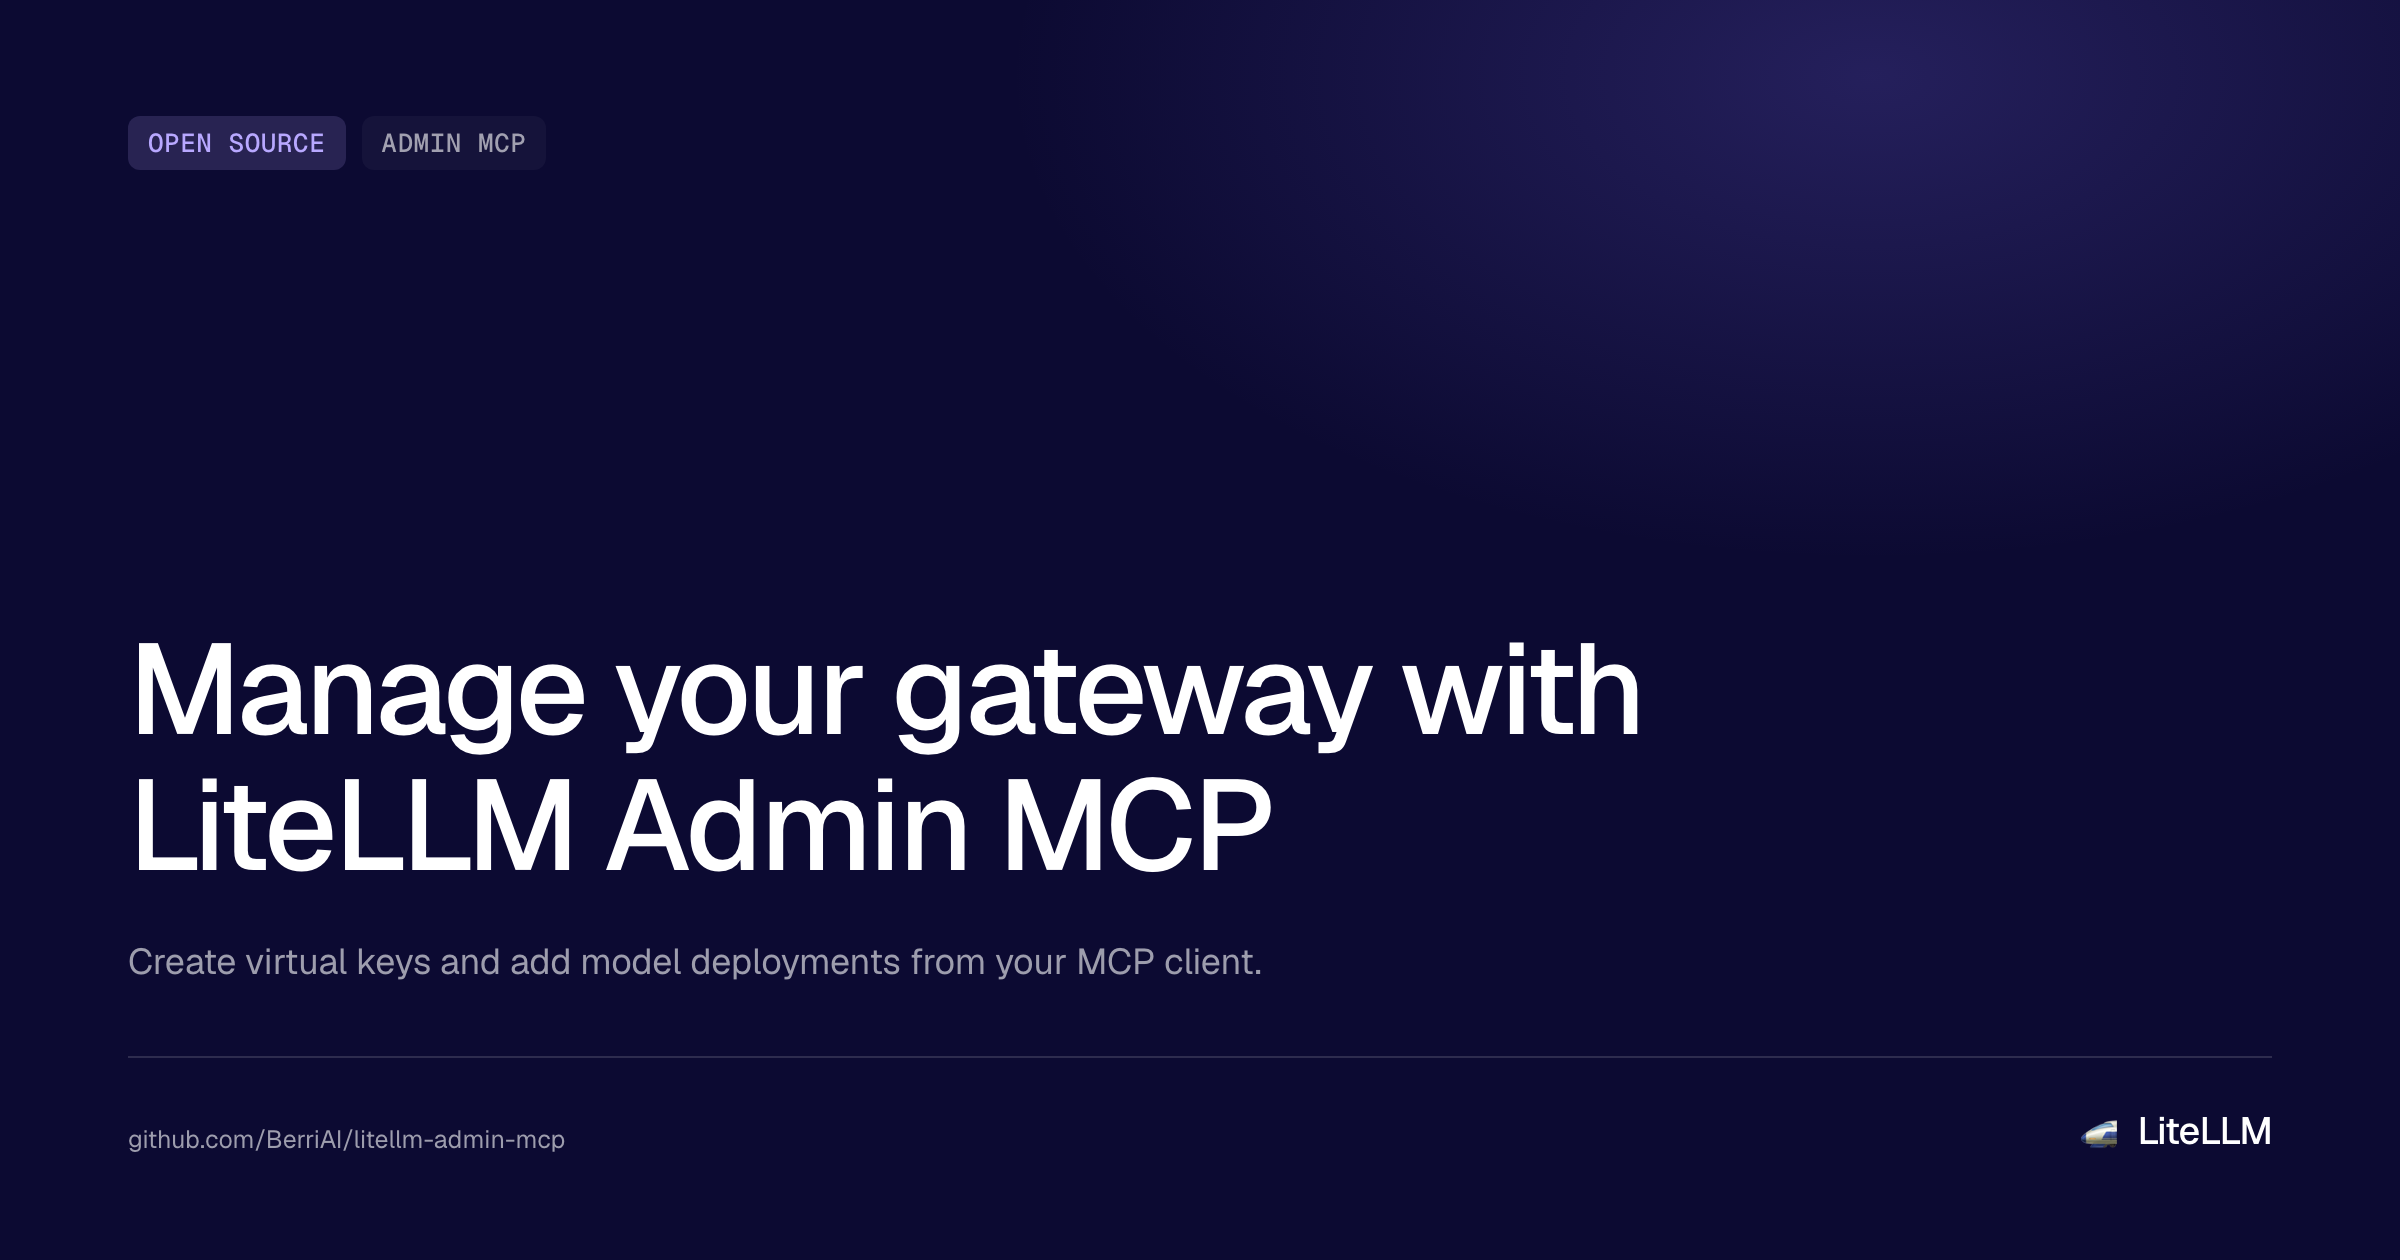
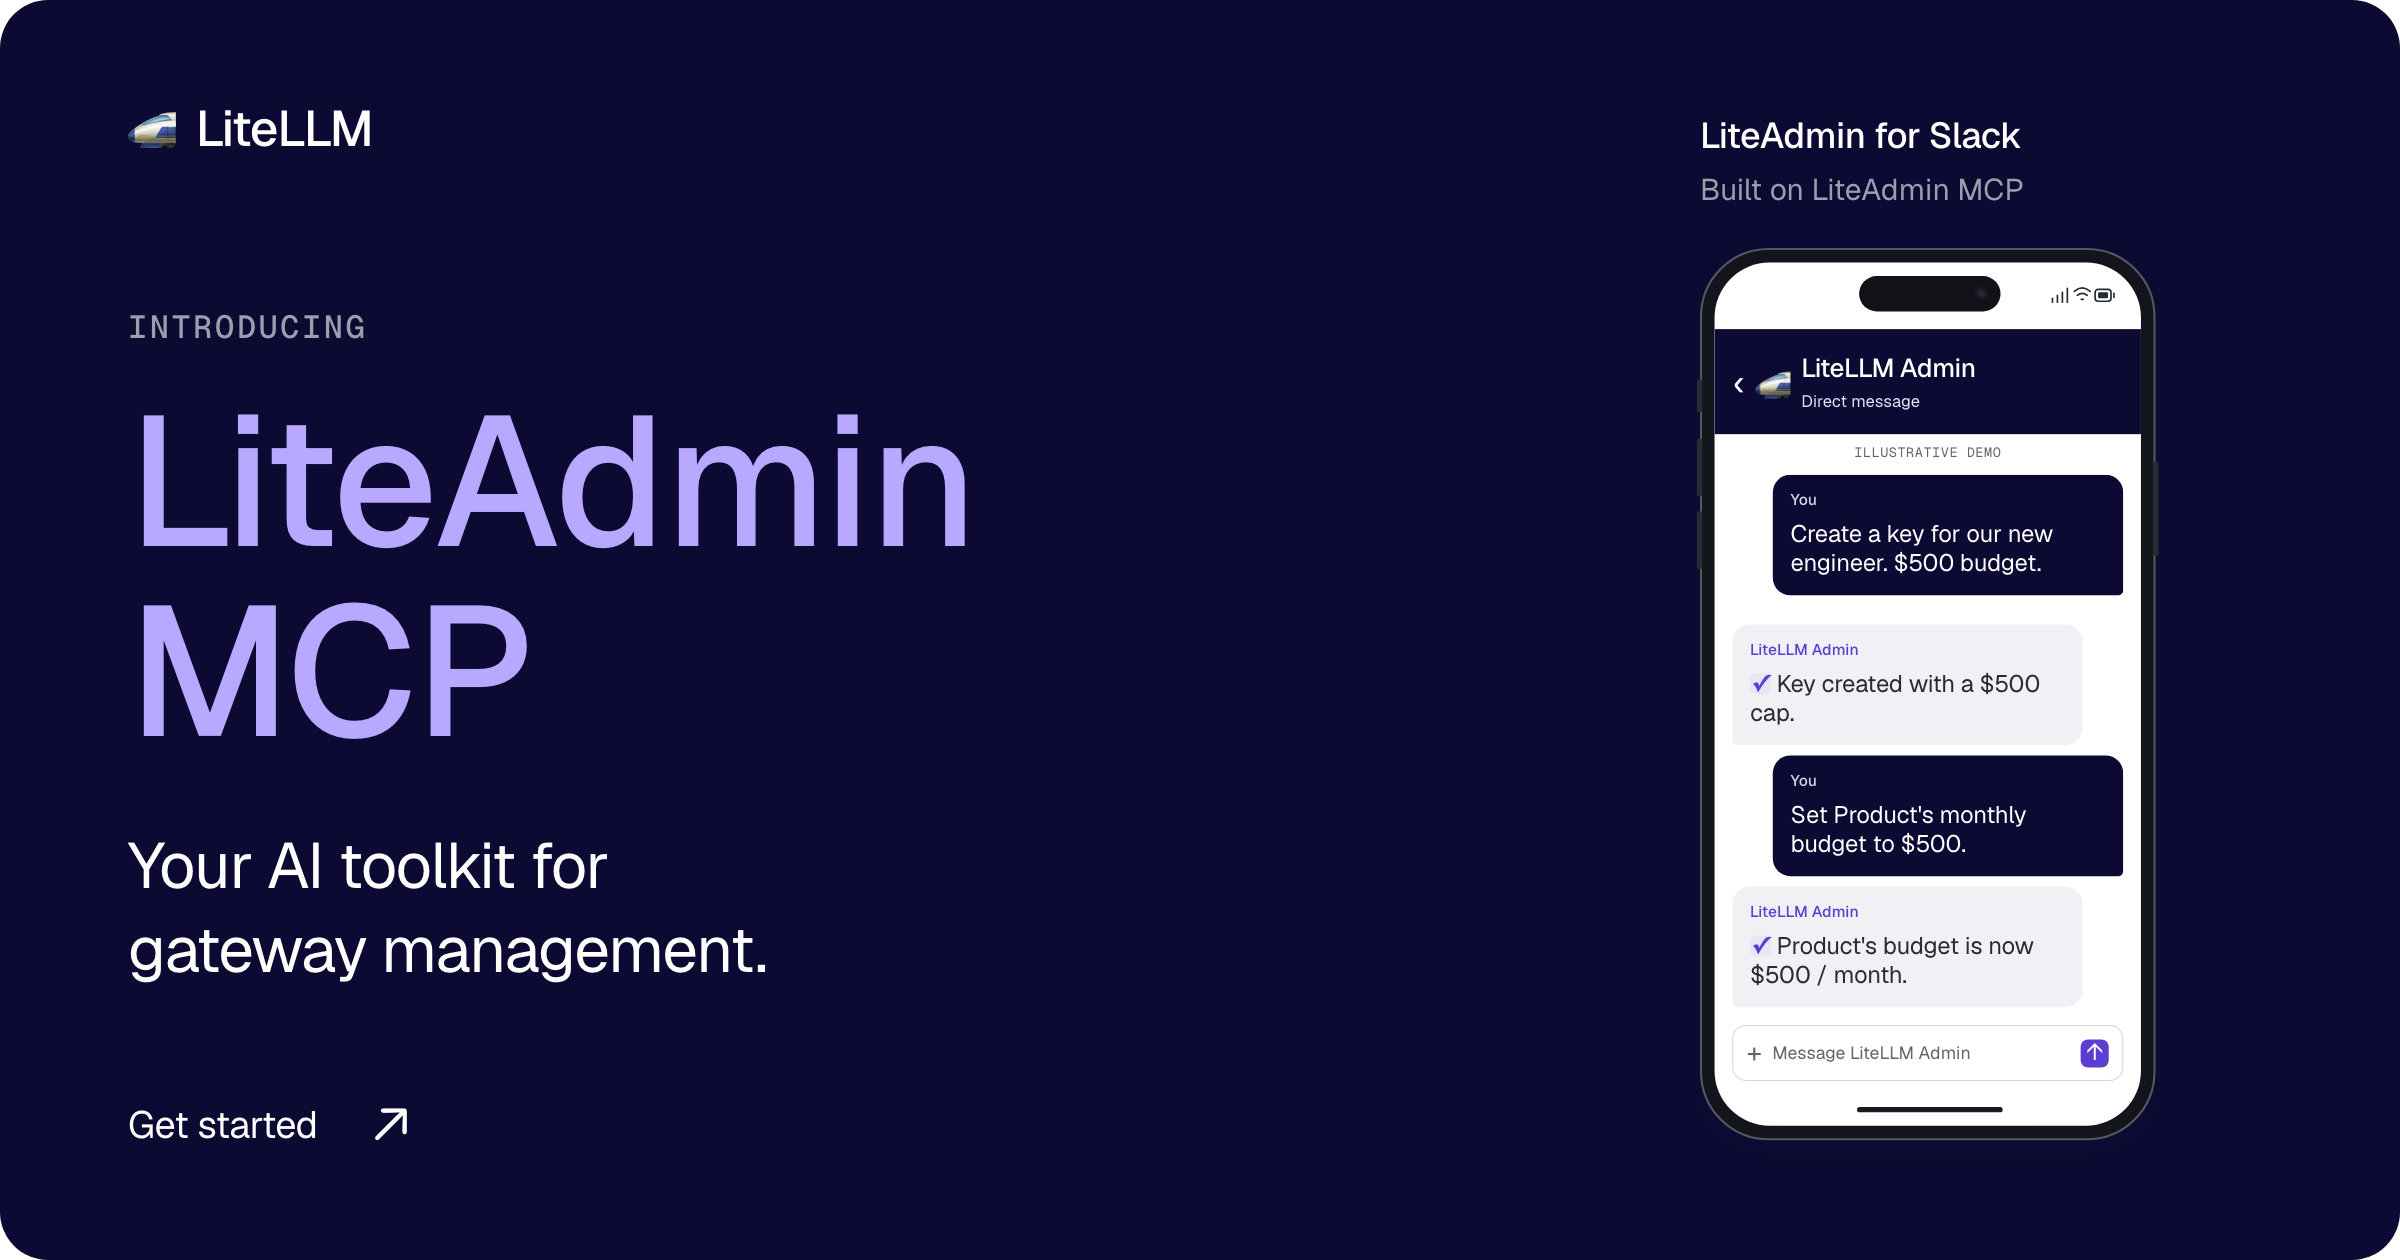
docs: lead launch post with LiteAdmin MCP and refresh heroes

diff --git a/blog/litellm_admin_mcp/index.md b/blog/litellm_admin_mcp/index.md
@@ -1,9 +1,9 @@
 ---
 slug: litellm-admin-mcp
-title: "Manage your gateway with LiteLLM Admin MCP"
+title: "Introducing LiteAdmin MCP"
 date: 2026-09-23T10:00:00
 authors: [tin]
-description: "Create keys, add models, and manage team budgets through your agent with LiteLLM Admin MCP, or from Slack with the LiteLLM Admin Agent."
+description: "Give your agent tools to create keys, add models, and manage budgets with LiteAdmin MCP. Use the same connector through LiteAdmin, our Slack admin agent."
 tags: [mcp, agents, ai-gateway]
 hide_table_of_contents: true
 image: ./hero.png
@@ -14,7 +14,7 @@ import HeroLight from './hero.png';
 import HeroDark from './hero-dark.png';
 
 <ThemedImage
-  alt="Manage your gateway with LiteLLM Admin MCP. Create virtual keys and add model deployments from your MCP client."
+  alt="Introducing LiteAdmin MCP: your AI toolkit for gateway management. LiteAdmin for Slack is built on LiteAdmin MCP."
   sources={{
     light: typeof HeroLight === 'string' ? HeroLight : HeroLight.src.images.at(-1).path,
     dark: typeof HeroDark === 'string' ? HeroDark : HeroDark.src.images.at(-1).path,
@@ -24,13 +24,13 @@ import HeroDark from './hero-dark.png';
 
 An engineer asks for an API key for a new project. You need to choose its models, set a budget, and assign it to a team. As usage grows, you need to check spending and adjust those limits.
 
-With **LiteLLM Admin MCP**, you can handle these tasks through your agent. Connect it to your MCP client, or use the **LiteLLM Admin Agent**, our Slack app built on the same connector, to manage your gateway from a DM.
+**LiteAdmin MCP** lets your agent handle these tasks through your gateway's management API. Connect it to an MCP client or a custom agent. We built **LiteAdmin**, our Slack admin agent, on the same connector.
 
 {/* truncate */}
 
 ## Connect your agent to your gateway
 
-Connect LiteLLM Admin MCP to a client such as Claude Code or Cursor, or to your own agent. Your client provides the conversation and model; the connector calls your gateway's management API with your admin credential.
+Connect LiteAdmin MCP to a client such as Claude Code or Cursor, or to your own agent. Your client provides the conversation and model; the connector calls your gateway's management API with your admin credential.
 
 Through that connection, you can:
 
@@ -57,11 +57,19 @@ To add a model deployment, provide its public name, provider/model ID, and crede
 
 Use a stored credential name and keep provider API keys out of chat. Your gateway needs provider access and a database configured to store models. Follow the [model setup requirements](https://github.com/BerriAI/litellm-admin-agent/blob/main/docs/compatibility.md#model-creation), then test inference after adding the deployment.
 
-## Work from a Slack DM
+## Choose the tools your agent can use
 
-You can use the same tools in Slack with the **LiteLLM Admin Agent**. Host the agent, connect your gateway, and choose the model it uses. Each installation connects one gateway to one Slack workspace and includes the MCP connector.
+Connect with your own LiteLLM proxy-admin credential. Your gateway permissions apply to management requests, and you can restrict the connector to specific tools or enable read-only mode.
 
-Open **LiteLLM Admin** in Slack, send **connect**, and follow the private sign-in link. Then ask:
+Start with team and spend lookups, then enable key creation when you're ready to make changes.
+
+## LiteAdmin: a Slack agent built on Admin MCP
+
+**LiteAdmin (the LiteLLM Admin Agent)** uses the same MCP server to manage your gateway from Slack. The app provides the conversation and sign-in; Admin MCP provides the gateway tools.
+
+Host the agent, connect your gateway, and choose the model it uses. The app includes the MCP connector, and each installation connects one gateway to one Slack workspace.
+
+Open **LiteLLM Admin** in Slack, send **connect**, and follow the private link to sign in with your own admin account. Your deployment can use SSO or a personal admin key entered on a browser page. Then ask:
 
 > Show Engineering's current spend and budget.
 
@@ -71,17 +79,11 @@ After checking the spend, request a change:
 
 You can follow up about the team's keys or usage in the same DM, from your laptop or phone.
 
-## Choose the access you give the agent
-
-Both options require a LiteLLM proxy-admin account. Each Slack user connects their own account through the deployment's chosen login method: SSO or a personal admin key entered on a private browser page. Your gateway permissions apply to management requests.
-
-You can enable read-only mode or select specific tools. Start with team and spend lookups, then enable key creation when you're ready to make changes.
-
 ## Get started
 
 Both projects are open source. Choose where you want to work:
 
-- **Your MCP client:** Follow the [Admin MCP setup guide](https://github.com/BerriAI/litellm-admin-mcp#readme) for local or hosted connections.
-- **Slack:** Follow the [Admin Agent setup guide](https://github.com/BerriAI/litellm-admin-agent#readme) to deploy with Docker Compose or Render.
+- **LiteAdmin MCP:** Follow the [setup guide](https://github.com/BerriAI/litellm-admin-mcp#readme) to connect your agent through a local or hosted MCP server.
+- **LiteAdmin for Slack:** Follow the [Admin Agent setup guide](https://github.com/BerriAI/litellm-admin-agent#readme) to deploy with Docker Compose or Render.
 
 Once connected, try **“List my teams and their current budgets.”**
